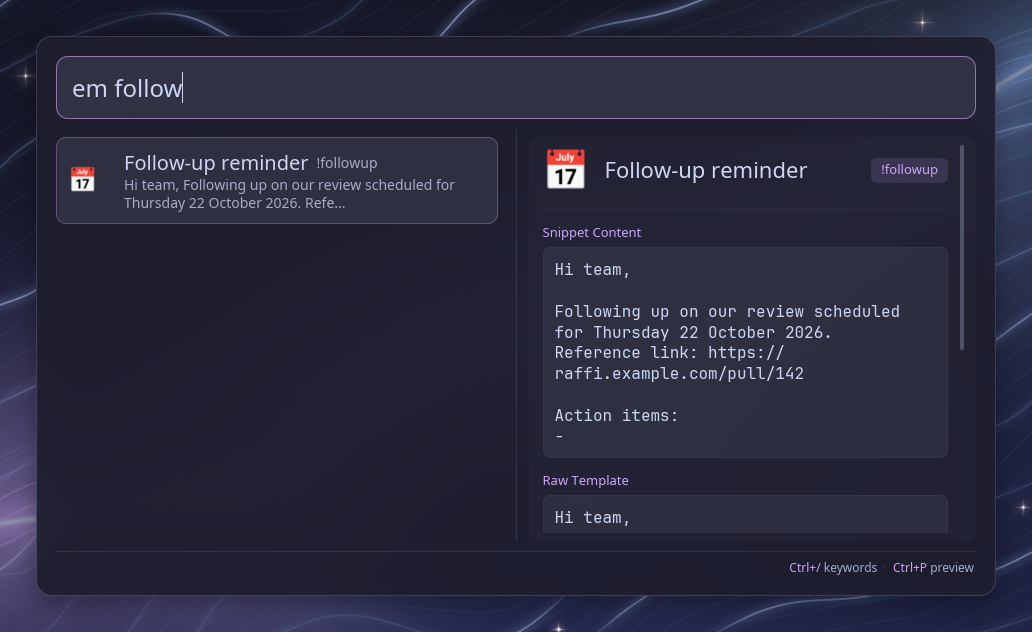
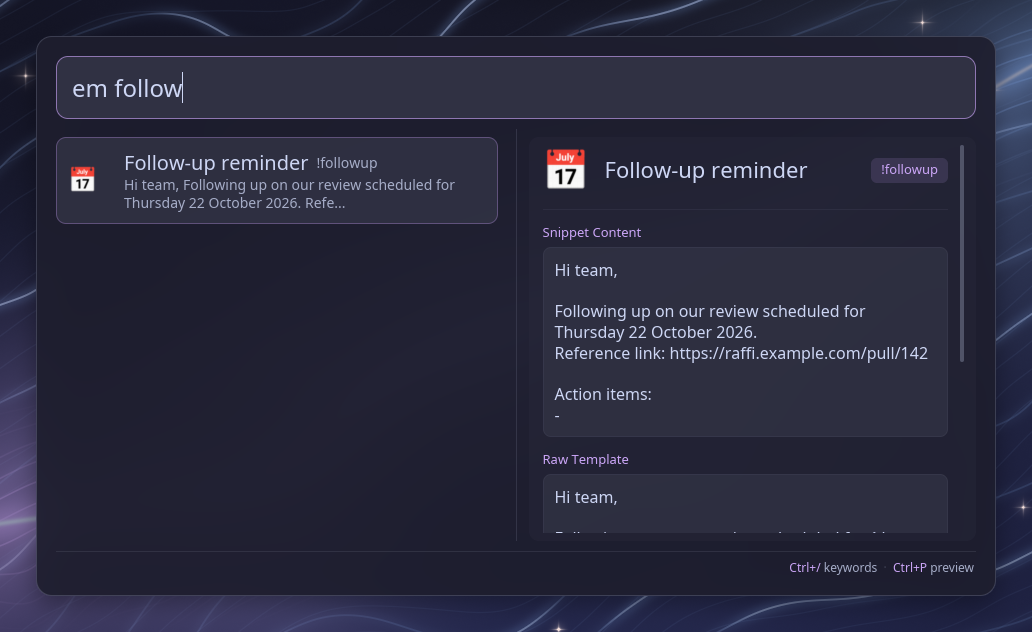
fix: Scale preview font size and use prose layout
Defaulted the preview font size to scale proportionally with the UI font
size. Added a prose body type to render snippets and messages using the
standard UI font instead of monospace.

Changed region(s): [[0.5271, 0.481, 0.8992, 0.6614], [0.5271, 0.7215, 0.6202, 0.8418], [0.5271, 0.4209, 0.6202, 0.4509]]

diff --git a/src/ui/wayland/preview.rs b/src/ui/wayland/preview.rs
@@ -318,8 +318,14 @@ pub(crate) fn parse_mrkdwn_spans(text: &str) -> Vec<MrkdwnSpan> {
 /// Main body block in the right-hand preview pane.
 #[derive(Debug, Clone, PartialEq, Eq)]
 pub(crate) enum PreviewBody {
-    /// Multiline plain or monospace text block, with an optional section heading.
+    /// Multiline monospace text block (code, commands, file contents), with an optional section heading.
     Text {
+        heading: Option<String>,
+        content: String,
+        truncated: bool,
+    },
+    /// Multiline text block in the preview font (messages, snippets, clipboard text).
+    Prose {
         heading: Option<String>,
         content: String,
         truncated: bool,
@@ -467,7 +473,7 @@ pub(super) fn inspect_path(full_path: &str, show_hidden: bool) -> InspectedFile 
     let meta = match fs::metadata(path) {
         Ok(m) => m,
         Err(err) => {
-            bodies.push(PreviewBody::Text {
+            bodies.push(PreviewBody::Prose {
                 heading: Some("Error".to_string()),
                 content: format!("Cannot inspect path: {err}"),
                 truncated: false,
@@ -499,7 +505,7 @@ pub(super) fn inspect_path(full_path: &str, show_hidden: bool) -> InspectedFile 
         metadata.push(("Size".to_string(), format_byte_size(meta.len())));
         if !meta.is_file() {
             metadata.push(("Type".to_string(), "Special file".to_string()));
-            bodies.push(PreviewBody::Text {
+            bodies.push(PreviewBody::Prose {
                 heading: Some("Preview unavailable".to_string()),
                 content: "Special files cannot be previewed.".to_string(),
                 truncated: false,
@@ -517,7 +523,7 @@ pub(super) fn inspect_path(full_path: &str, show_hidden: bool) -> InspectedFile 
             if read_res.is_ok() {
                 if buf.is_empty() {
                     metadata.push(("Type".to_string(), "Empty file".to_string()));
-                    bodies.push(PreviewBody::Text {
+                    bodies.push(PreviewBody::Prose {
                         heading: Some("Contents".to_string()),
                         content: "(Empty file)".to_string(),
                         truncated: false,
@@ -532,7 +538,7 @@ pub(super) fn inspect_path(full_path: &str, show_hidden: bool) -> InspectedFile 
 
                     if slice.contains(&0) {
                         metadata.push(("Type".to_string(), "Binary file".to_string()));
-                        bodies.push(PreviewBody::Text {
+                        bodies.push(PreviewBody::Prose {
                             heading: Some("Binary File".to_string()),
                             content: "Binary file preview is not shown.".to_string(),
                             truncated: false,
@@ -562,7 +568,7 @@ pub(super) fn inspect_path(full_path: &str, show_hidden: bool) -> InspectedFile 
                             });
                         } else {
                             metadata.push(("Type".to_string(), "Binary file".to_string()));
-                            bodies.push(PreviewBody::Text {
+                            bodies.push(PreviewBody::Prose {
                                 heading: Some("Binary File".to_string()),
                                 content: "Binary file preview is not shown.".to_string(),
                                 truncated: false,
@@ -828,7 +834,7 @@ impl LauncherApp {
                     subtitle: Some("Running external command...".to_string()),
                     badge: Some("Script Filter".to_string()),
                     icon: None,
-                    bodies: vec![PreviewBody::Text {
+                    bodies: vec![PreviewBody::Prose {
                         heading: None,
                         content: format!("Waiting for {name} output..."),
                         truncated: false,
@@ -844,7 +850,7 @@ impl LauncherApp {
                     subtitle: None,
                     badge: Some("Input required".to_string()),
                     icon: None,
-                    bodies: vec![PreviewBody::Text {
+                    bodies: vec![PreviewBody::Prose {
                         heading: None,
                         content: help_msg.clone(),
                         truncated: false,
@@ -1102,7 +1108,7 @@ impl LauncherApp {
         });
         let expanded_value = expanded.unwrap_or(&snippet.value);
 
-        let mut bodies = vec![PreviewBody::Text {
+        let mut bodies = vec![PreviewBody::Prose {
             heading: Some("Snippet Content".to_string()),
             content: expanded_value.to_string(),
             truncated: false,
@@ -1110,7 +1116,7 @@ impl LauncherApp {
 
         // Expansions are only computed when placeholders are enabled.
         if expanded_value != snippet.value {
-            bodies.push(PreviewBody::Text {
+            bodies.push(PreviewBody::Prose {
                 heading: Some("Raw Template".to_string()),
                 content: snippet.value.clone(),
                 truncated: false,
@@ -1651,12 +1657,12 @@ impl LauncherApp {
             metadata.push(("Copied".to_string(), super::clipboard::full_copy_time(time)));
         }
         match self.clipboard.preview(&item.id) {
-            None => bodies.push(PreviewBody::Text {
+            None => bodies.push(PreviewBody::Prose {
                 heading: None,
                 content: "Loading preview...".to_string(),
                 truncated: false,
             }),
-            Some(Err(error)) => bodies.push(PreviewBody::Text {
+            Some(Err(error)) => bodies.push(PreviewBody::Prose {
                 heading: Some("Preview unavailable".to_string()),
                 content: error.clone(),
                 truncated: false,
@@ -1672,7 +1678,7 @@ impl LauncherApp {
                             format!("{} × {} px", image.width, image.height),
                         ));
                     }
-                    Some(Err(error)) => bodies.push(PreviewBody::Text {
+                    Some(Err(error)) => bodies.push(PreviewBody::Prose {
                         heading: Some("Image".to_string()),
                         content: error.clone(),
                         truncated: false,
@@ -1700,7 +1706,7 @@ impl LauncherApp {
                     } else {
                         "Text"
                     };
-                    bodies.push(PreviewBody::Text {
+                    bodies.push(PreviewBody::Prose {
                         heading: Some(heading.to_string()),
                         content: preview.text.clone(),
                         truncated: preview.text_truncated,

diff --git a/src/ui/wayland/tests.rs b/src/ui/wayland/tests.rs
@@ -732,6 +732,16 @@ fn test_snippet_previews_use_fetched_clipboard_and_ignore_stale_results() {
         app.text_snippets.clipboard.data,
         fetched("copied", "before")
     );
+
+    // Snippet text is prose, drawn in the preview font rather than monospace.
+    let preview = app.resolve_selected_preview().unwrap();
+    assert!(matches!(
+        preview.bodies.as_slice(),
+        [
+            PreviewBody::Prose { content, .. },
+            PreviewBody::Prose { content: raw, .. },
+        ] if content == "> copied" && raw == "> {clipboard}"
+    ));
 }
 
 #[test]
@@ -2508,17 +2518,22 @@ fn test_preview_style_resolves_defaults_and_overrides() {
     use super::theme::PreviewStyle;
     let theme = ThemeColors::from_mode_with_overrides(&crate::ThemeMode::Dark, None);
 
-    let default_style = PreviewStyle::resolve(&theme, &crate::PreviewConfig::default(), None);
-    assert_eq!(default_style.text, PreviewStyle::DEFAULT_FONT_SIZE);
+    let default_style = PreviewStyle::resolve(&theme, &crate::PreviewConfig::default(), None, 20.0);
+    assert_eq!(default_style.text, 16.0);
     assert_eq!(default_style.width_fraction, 0.5);
     assert_eq!(default_style.accent, theme.accent);
 
-    let inherited_font_style =
-        PreviewStyle::resolve(&theme, &crate::PreviewConfig::default(), Some("UI Font"));
+    let inherited_font_style = PreviewStyle::resolve(
+        &theme,
+        &crate::PreviewConfig::default(),
+        Some("UI Font"),
+        26.0,
+    );
     assert!(matches!(
         inherited_font_style.font.family,
         iced::font::Family::Name("UI Font")
     ));
+    assert_eq!(inherited_font_style.text, 21.0);
 
     let config = crate::PreviewConfig {
         font_size: Some(20.0),
@@ -2531,7 +2546,7 @@ fn test_preview_style_resolves_defaults_and_overrides() {
         }),
         ..Default::default()
     };
-    let style = PreviewStyle::resolve(&theme, &config, Some("UI Font"));
+    let style = PreviewStyle::resolve(&theme, &config, Some("UI Font"), 26.0);
     assert!(matches!(
         style.font.family,
         iced::font::Family::Name("Preview Font")
@@ -2612,12 +2627,12 @@ fn test_preview_ansi_palette_swaps_unreadable_colours() {
     let config = crate::PreviewConfig::default();
     // Palette black sits on a dark background: unreadable, so muted.
     let dark = ThemeColors::from_mode_with_overrides(&crate::ThemeMode::Dark, None);
-    let style = PreviewStyle::resolve(&dark, &config, None);
+    let style = PreviewStyle::resolve(&dark, &config, None, 20.0);
     assert_eq!(style.ansi[0], style.text_muted);
     assert_eq!(style.ansi[1], dark.ansi[1]);
     // Light palettes put a pale colour in slot 0 and a dark one in slot 7.
     let latte = ThemeColors::from_mode_with_overrides(&crate::ThemeMode::CatppuccinLatte, None);
-    let style = PreviewStyle::resolve(&latte, &config, None);
+    let style = PreviewStyle::resolve(&latte, &config, None, 20.0);
     assert_eq!(style.ansi[0], style.text_muted);
     assert_eq!(style.ansi[7], latte.ansi[7]);
 }
@@ -3391,7 +3406,7 @@ fn test_inspect_path_text_binary_truncation_and_directory() {
         .any(|(k, v)| k == "Type" && v == "Empty file"));
     assert!(empty_inspected.bodies.iter().any(|b| matches!(
         b,
-        PreviewBody::Text { content, .. } if content == "(Empty file)"
+        PreviewBody::Prose { content, .. } if content == "(Empty file)"
     )));
 
     // Text file
@@ -3850,7 +3865,7 @@ fn test_clipboard_previews_are_bound_to_session_and_item() {
     let preview = app.resolve_selected_preview().unwrap();
     assert!(matches!(
         preview.bodies.first(),
-        Some(PreviewBody::Text { content, .. }) if content == "Loading preview..."
+        Some(PreviewBody::Prose { content, .. }) if content == "Loading preview..."
     ));
     assert!(preview
         .metadata
@@ -3883,7 +3898,7 @@ fn test_clipboard_previews_are_bound_to_session_and_item() {
     let preview = app.resolve_selected_preview().unwrap();
     assert!(matches!(
         preview.bodies.first(),
-        Some(PreviewBody::Text { content, .. }) if content == "beta\nsecond line"
+        Some(PreviewBody::Prose { content, .. }) if content == "beta\nsecond line"
     ));
 
     let mut image = clip_text_preview("");

diff --git a/src/ui/wayland/view.rs b/src/ui/wayland/view.rs
@@ -1582,11 +1582,11 @@ impl LauncherApp {
             }
         };
         let heading = |label: String| text(label).size(ps.small).color(ps.accent).font(ps.font);
-        let body_text = |value: String| {
+        let body_text = |value: String, font: iced::Font| {
             text(value)
                 .size(ps.text)
                 .color(ps.text_main)
-                .font(ps.mono_font)
+                .font(font)
                 .wrapping(iced::widget::text::Wrapping::WordOrGlyph)
         };
 
@@ -1684,18 +1684,25 @@ impl LauncherApp {
             if image_first && body_index == 0 {
                 continue; // already rendered above, filling the first view
             }
+            let prose = matches!(body, PreviewBody::Prose { .. });
             match body {
                 PreviewBody::Text {
                     heading: h,
                     content,
                     truncated,
+                }
+                | PreviewBody::Prose {
+                    heading: h,
+                    content,
+                    truncated,
                 } => {
+                    let font = if prose { ps.font } else { ps.mono_font };
                     let mut section = Column::new().spacing(6).width(Length::Fill);
                     if let Some(h) = h {
                         section = section.push(heading(h));
                     }
                     section = section.push(
-                        container(body_text(content))
+                        container(body_text(content, font))
                             .padding(12.0)
                             .width(Length::Fill)
                             .style(block_style),

diff --git a/src/ui/wayland/slack.rs b/src/ui/wayland/slack.rs
@@ -2826,7 +2826,7 @@ pub(super) fn load_preview(
             return Some(preview);
         }
     }
-    let body = PreviewBody::Text {
+    let body = PreviewBody::Prose {
         heading: None,
         content: error,
         truncated: false,
@@ -2886,7 +2886,7 @@ fn from_cached_preview(cached: CachedPreview) -> Preview {
                 heading,
                 content,
                 truncated,
-            } => PreviewBody::Text {
+            } => PreviewBody::Prose {
                 heading,
                 content,
                 truncated,
@@ -2928,7 +2928,7 @@ fn to_cached_preview(bodies: &[PreviewBody], avatar: Option<&str>) -> Option<Cac
     let bodies: Option<Vec<_>> = bodies
         .iter()
         .map(|body| match body {
-            PreviewBody::Text {
+            PreviewBody::Prose {
                 heading,
                 content,
                 truncated,
@@ -3992,7 +3992,7 @@ mod tests {
 
     #[test]
     fn test_text_and_chat_previews_survive_the_disk_cache() {
-        let text_body = PreviewBody::Text {
+        let text_body = PreviewBody::Prose {
             heading: Some("Error".into()),
             content: "network failure".into(),
             truncated: false,

diff --git a/src/lib.rs b/src/lib.rs
@@ -1338,14 +1338,16 @@ pub struct PreviewColorsConfig {
 #[derive(Deserialize, JsonSchema, Debug, Clone, Default, PartialEq)]
 #[schemars(deny_unknown_fields)]
 pub struct PreviewConfig {
-    /// Base font size in px for preview text (default: 16). Title, headings and
-    /// hero values scale from it.
+    /// Base font size in px for preview text (default: 0.8 × general font_size,
+    /// 16 at the default 20). Title, headings and hero values scale from it.
     #[serde(default)]
     pub font_size: Option<f32>,
-    /// Font family for the preview pane (default: the UI font)
+    /// Font family for the preview pane, including message, snippet and
+    /// clipboard text (default: the UI font)
     #[serde(default)]
     pub font_family: Option<String>,
-    /// Monospace font family for code/text blocks (default: system monospace)
+    /// Monospace font family for code blocks such as file contents, commands
+    /// and script output (default: system monospace)
     #[serde(default)]
     pub mono_font_family: Option<String>,
     /// Width of the preview pane as a percentage of the window (10-80, default: 50)

diff --git a/src/ui/wayland/theme.rs b/src/ui/wayland/theme.rs
@@ -34,7 +34,8 @@ pub(super) struct PreviewStyle {
 }
 
 impl PreviewStyle {
-    pub const DEFAULT_FONT_SIZE: f32 = 16.0;
+    /// Preview text size relative to the UI item size (16 px at the default 20).
+    pub const FONT_SIZE_SCALE: f32 = 0.8;
     pub const DEFAULT_WIDTH_PERCENT: f32 = 50.0;
 
     /// Build the preview style from the UI theme and the optional `general.preview` config.
@@ -42,11 +43,12 @@ impl PreviewStyle {
         theme: &ThemeColors,
         config: &PreviewConfig,
         ui_font_family: Option<&str>,
+        ui_font_size: f32,
     ) -> Self {
         let base = config
             .font_size
             .filter(|size| size.is_finite() && *size > 0.0)
-            .unwrap_or(Self::DEFAULT_FONT_SIZE);
+            .unwrap_or_else(|| (ui_font_size * Self::FONT_SIZE_SCALE).round());
         let width_percent = config
             .width_percent
             .filter(|p| p.is_finite())

diff --git a/src/ui/wayland/state.rs b/src/ui/wayland/state.rs
@@ -414,7 +414,12 @@ impl ViewState {
             items_container_id: ContainerId::unique(),
             generation: 0,
             current_modifiers: iced::keyboard::Modifiers::empty(),
-            preview_style: PreviewStyle::resolve(&theme, &crate::PreviewConfig::default(), None),
+            preview_style: PreviewStyle::resolve(
+                &theme,
+                &crate::PreviewConfig::default(),
+                None,
+                font_sizes.item,
+            ),
             window_size: iced::Size::new(800.0, 600.0),
             theme,
             font_sizes,

diff --git a/src/ui/wayland/tab_preview.rs b/src/ui/wayland/tab_preview.rs
@@ -199,7 +199,7 @@ fn is_public_v4(ip: Ipv4Addr) -> bool {
 fn bodies(description: Option<String>, image: Option<PathBuf>) -> Vec<PreviewBody> {
     let mut bodies = Vec::new();
     if let Some(description) = description {
-        bodies.push(PreviewBody::Text {
+        bodies.push(PreviewBody::Prose {
             heading: None,
             content: description,
             truncated: false,

diff --git a/src/ui/wayland.rs b/src/ui/wayland.rs
@@ -218,6 +218,7 @@ fn run_wayland_ui(
         &theme_colors,
         &settings.preview,
         settings.font_family.as_deref(),
+        settings.font_sizes.item,
     );
     let default_script_shell = settings.default_script_shell.clone();
 
